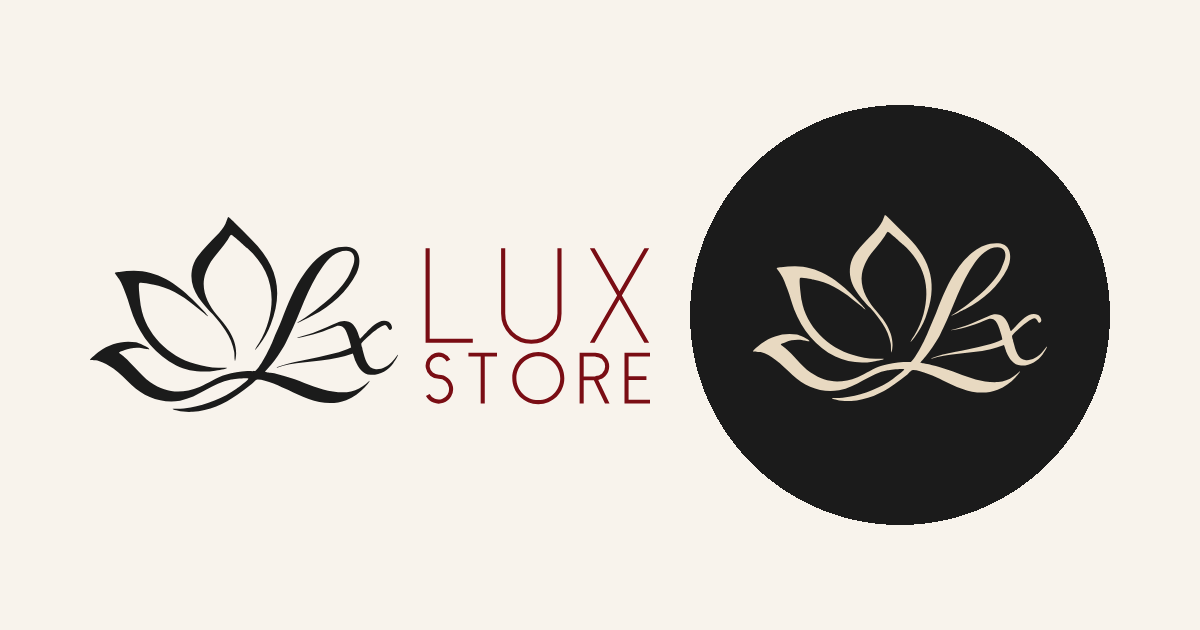
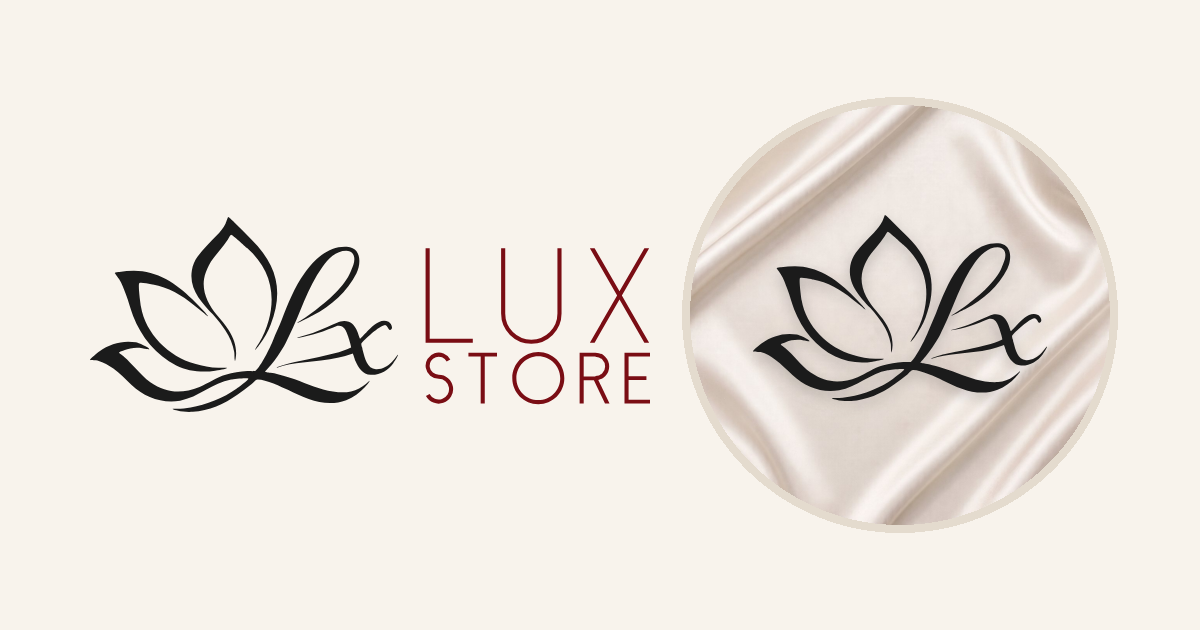
Por defecto: blanco satén con loto negro y efecto flotante

Changed region(s): [[0.555, 0.1508, 0.9558, 0.8444]]

diff --git a/index.html b/index.html
@@ -245,7 +245,7 @@ footer{padding-block:28px;font-size:13px;color:var(--soft)}
   <div style="display:grid;gap:16px;min-width:0">
     <p class="aviso"><b>Cuenta: la de Lux Store.</b> No cambies la foto de <code>luxnails09</code>: es la marca personal de Luxana y se queda como está.</p>
     <ol class="steps">
-      <li><span>Elige la combinación que indique Alek. Si no dice nada, usa la recomendada: <b>negro con beige</b>.</span></li>
+      <li><span>Elige la combinación que indique Alek. Si no dice nada, usa la recomendada: <b>blanco satén con loto negro</b> y el efecto flotante activado.</span></li>
       <li><span>Toca <b>Descargar PNG</b>. En el celular, si se abre la imagen, mantenla presionada y guárdala.</span></li>
       <li><span>En Instagram, con la cuenta de Lux Store: <b>Perfil → Editar perfil → Cambiar foto de perfil → Subir foto</b>.</span></li>
       <li><span>Súbela <b>sin recortar ni hacer zoom</b>: el loto ya entra completo en el círculo.</span></li>
@@ -272,9 +272,8 @@ const OK={
 };
 const WHY={rule:'Rosa y vino nunca van juntos (regla de la marca).',same:'Es el mismo color del fondo.',low:'Poco contraste: el loto no se leería bien en pequeño.'};
 const SHADOW={negro:['#000000',.85],blanco:['#1B1B1B',.22],beige:['#5C4A30',.38],rosa:['#6E3A46',.38],vino:['#200204',.65]};
-const PRESETS=[['negro','beige','Recomendada'],['negro','blanco','Más contraste'],['beige','negro','Clara'],['blanco','vino','Blanca con vino'],['vino','beige','Vino'],['rosa','negro','Rosa']];
-let st={bg:'negro',fg:'beige',size:70,shadow:true,square:false,tex:'liso'};
-try{const s=JSON.parse(localStorage.getItem('luxstore-perfil-v2')||'null'); if(s&&OK[s.bg]&&OK[s.bg][s.fg]) st=Object.assign(st,s);}catch(e){}
+const PRESETS=[['blanco','negro','Recomendada','tela'],['negro','beige','Negro y beige','liso'],['negro','blanco','Más contraste','liso'],['beige','negro','Clara','liso'],['blanco','vino','Blanca con vino','liso'],['vino','beige','Vino','liso'],['rosa','negro','Rosa','liso']];
+let st={bg:'blanco',fg:'negro',size:70,shadow:true,square:false,tex:'tela'};
 
 const DARK={negro:1,vino:1};
 function tex(bg){return 'telas/tela_'+bg+'.jpg'}
@@ -305,7 +304,7 @@ function chips(el,kind){
   el.innerHTML=Object.keys(COL).map(c=>`<button type="button" class="chip" data-${kind}="${c}"><i style="background:${COL[c]}"></i><span>${NAME[c]}</span></button>`).join('');
 }
 chips(document.getElementById('swBg'),'bg'); chips(document.getElementById('swFg'),'fg');
-document.getElementById('presets').innerHTML=PRESETS.map(([b,f,t])=>`<button type="button" class="preset" data-p="${b},${f}"><em style="background:${COL[b]};--c2:${COL[f]}"></em>${t}</button>`).join('');
+document.getElementById('presets').innerHTML=PRESETS.map(([b,f,t,x])=>`<button type="button" class="preset" data-p="${b},${f},${x}"><em style="background:${x==='tela'?`url(${tex(b)}) center/cover`:COL[b]};--c2:${COL[f]}"></em>${t}</button>`).join('');
 const sizes=[[110,'Perfil'],[77,'Historias'],[56,'Comentarios'],[44,'Mensajes'],[32,'Notificaciones']];
 document.getElementById('sizes').innerHTML=sizes.map(([p,t])=>`<figure><div class="c" data-av style="width:${p}px;height:${p}px"></div><figcaption>${p} px · ${t}</figcaption></figure>`).join('');
 
@@ -318,7 +317,7 @@ function render(){
   document.getElementById('why').textContent=Object.keys(COL).filter(c=>!OK[st.bg][c]).map(c=>`${NAME[c]}: ${reason(st.bg,c).replace(/\.$/,'').toLowerCase()}`).join(' · ');
   const r=ratio(COL[st.bg],COL[st.fg]);
   document.getElementById('contrast').textContent=`contraste ${r.toFixed(1)}:1`;
-  const pre=PRESETS.find(p=>p[0]===st.bg&&p[1]===st.fg);
+  const pre=PRESETS.find(p=>p[0]===st.bg&&p[1]===st.fg&&p[3]===st.tex);
   document.getElementById('combo').innerHTML=`<b>${NAME[st.bg]}${st.tex==='tela'?' (satén)':''} con ${NAME[st.fg].toLowerCase()}</b>${pre?' · '+pre[2]:''}`;
   document.getElementById('size').value=st.size; document.getElementById('sizeOut').textContent=st.size+' %';
   document.getElementById('shadow').checked=st.shadow;
@@ -326,12 +325,11 @@ function render(){
   document.getElementById('txLi').style.background=COL[st.bg];document.getElementById('txTi').style.backgroundImage=`url(${tex(st.bg)})`;
   document.getElementById('big').classList.toggle('square',st.square);
   document.getElementById('shC').setAttribute('aria-pressed',String(!st.square));document.getElementById('shS').setAttribute('aria-pressed',String(st.square));
-  try{localStorage.setItem('luxstore-perfil-v2',JSON.stringify(st))}catch(e){}
 }
 document.addEventListener('click',e=>{
   const b=e.target.closest('[data-bg]'); if(b){st.bg=b.dataset.bg; if(!OK[st.bg][st.fg]) st.fg=Object.keys(OK[st.bg])[0]; render(); return;}
   const f=e.target.closest('[data-fg]'); if(f&&!f.disabled){st.fg=f.dataset.fg; render(); return;}
-  const p=e.target.closest('[data-p]'); if(p){[st.bg,st.fg]=p.dataset.p.split(','); render();}
+  const p=e.target.closest('[data-p]'); if(p){[st.bg,st.fg,st.tex]=p.dataset.p.split(','); render();}
 });
 document.getElementById('size').addEventListener('input',e=>{st.size=+e.target.value;render()});
 document.getElementById('shadow').addEventListener('change',e=>{st.shadow=e.target.checked;render()});
